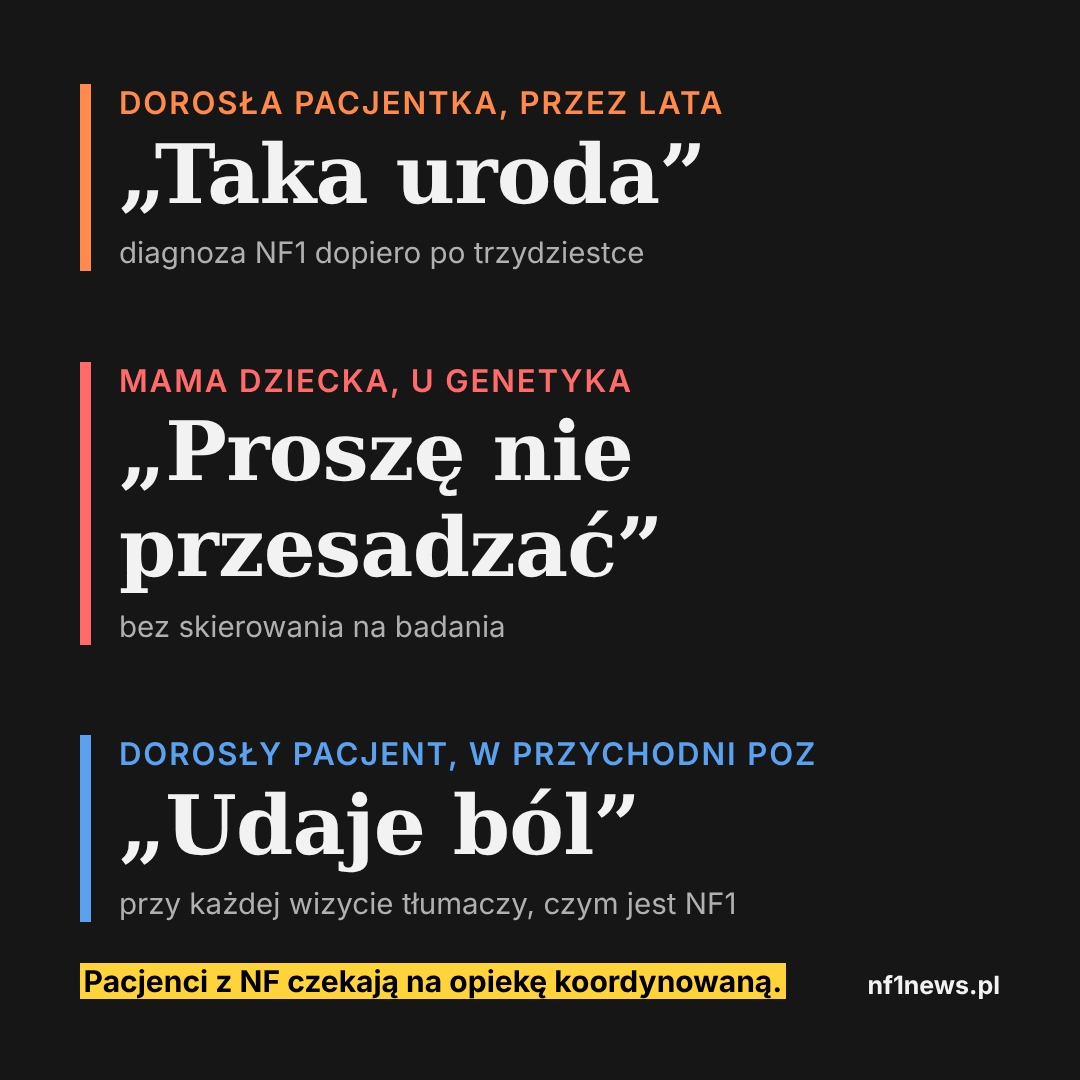
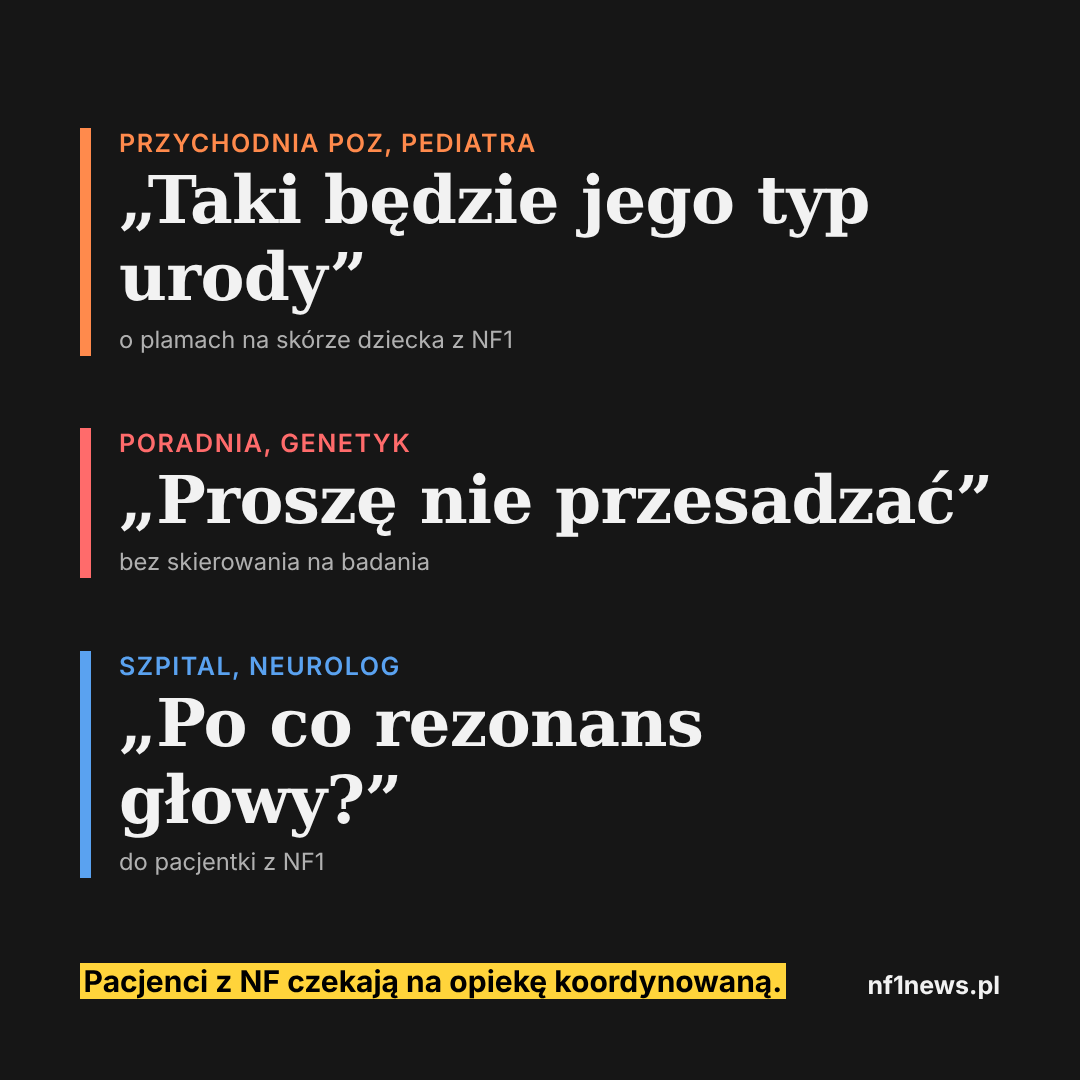
Szkic: relacje według miejsc opieki (POZ, poradnie, szpital, ośrodek)
Claude-Session: https://claude.ai/code/session_019jaYAT68TCeG7DBMMLMEMJ

Changed region(s): [[0.0611, 0.0611, 0.9167, 0.8556], [0.0611, 0.0611, 0.0917, 0.1222]]

diff --git a/_posts/2026-11-23-historie-pacjentow-z-nf.md b/_posts/2026-11-23-historie-pacjentow-z-nf.md
@@ -1,62 +1,63 @@
 ---
 date: 2026-11-23 10:00:00 +0100
-title: "„Taka uroda”, „proszę nie przesadzać”. Cztery historie pacjentów z NF1 o opiece poza pilotażem"
-description: "Rodzice dzieci z NF1 i dorośli z tą chorobą opisują wizyty u okulisty, neurologa, genetyka, urologa, pediatry i lekarza rodzinnego poza programem opieki koordynowanej. Cztery historie i trzy krótkie relacje, bez imion i nazw miejscowości."
+title: "„Taka uroda”, „proszę nie przesadzać”. Co pacjenci z NF1 słyszą u lekarzy poza ośrodkami specjalistycznymi"
+description: "Rodzice dzieci z NF1 i dorośli z tą chorobą opisują wizyty w przychodniach POZ, u specjalistów i w szpitalu, poza ośrodkami, które znają NF1. Relacje bez imion i nazw miejscowości."
 image: /assets/grafiki/2026-11-23-historie-pacjentow-z-nf.png
-grafika_alt: "Cztery historie pacjentów z NF1 poza pilotażem. „Taka uroda” – latami słyszała dorosła pacjentka, diagnoza NF1 dopiero po trzydziestce. „Proszę nie przesadzać” – usłyszała mama dziecka u genetyka, bez skierowania na badania. „Udaje ból” – usłyszał dorosły pacjent w przychodni POZ, gdzie przy każdej wizycie tłumaczy, czym jest NF1. Pacjenci z NF czekają na opiekę koordynowaną."
-tweet: "„Taka uroda”. „Proszę nie przesadzać”. „Udaje ból”. To słyszeli pacjenci z NF1 i rodzice dzieci z NF1 w gabinetach poza pilotażem opieki koordynowanej. Cztery historie. @MZ_GOV_PL #NF1 #neurofibromatoza #ChorobyRzadkie"
-fb: "„Taka uroda”. „Proszę nie przesadzać”. „Udaje ból”. Rodzice dzieci z NF1 i dorośli z tą chorobą opisali, jak wyglądają wizyty u okulisty, neurologa, genetyka, urologa, pediatry i lekarza rodzinnego poza programem opieki koordynowanej. Pilotaż opieki koordynowanej dla pacjentów z neurofibromatozami zakończył się 30 kwietnia 2026 r. Ministerstwo Zdrowia kieruje minister Jolanta Sobierańska-Grenda. #NF1 #neurofibromatoza #ChorobyRzadkie"
+grafika_alt: "Pacjenci z NF1 poza ośrodkami specjalistycznymi. Przychodnia POZ, pediatra: „Taki będzie jego typ urody” o plamach na skórze dziecka z NF1. Poradnia, genetyk: „Proszę nie przesadzać”, bez skierowania na badania. Szpital, neurolog: „Po co rezonans głowy?” do pacjentki z NF1. Pacjenci z NF czekają na opiekę koordynowaną."
+tweet: "„Taka uroda”. „Proszę nie przesadzać”. „Udaje ból”. To słyszeli pacjenci z NF1 i rodzice dzieci z NF1 w przychodniach POZ, u specjalistów i w szpitalu, poza ośrodkami znającymi NF1. @MZ_GOV_PL #NF1 #neurofibromatoza #ChorobyRzadkie"
+fb: "„Taka uroda”. „Proszę nie przesadzać”. „Udaje ból”. Rodzice dzieci z NF1 i dorośli z tą chorobą opisali, co słyszą w przychodniach POZ, u pediatry, okulisty, neurologa, genetyka, urologa i w szpitalu, poza ośrodkami specjalistycznymi, które znają NF1. Pilotaż opieki koordynowanej dla pacjentów z neurofibromatozami zakończył się 30 kwietnia 2026 r. Ministerstwo Zdrowia kieruje minister Jolanta Sobierańska-Grenda. #NF1 #neurofibromatoza #ChorobyRzadkie"
 ---
 
-Rodzice dzieci z neurofibromatozą typu 1 (NF1) i dorośli z tą chorobą opisali nam swoje wizyty u lekarzy poza programem pilotażowym opieki koordynowanej. Program działał w latach 2020–2026 i **<mark>zakończył się 30 kwietnia 2026 r.</mark>** Publikujemy cztery historie za zgodą ich autorów. Usunęliśmy imiona, nazwy miejscowości, placówek i nazwiska lekarzy.
+Neurofibromatoza typu 1 (NF1) może dotyczyć skóry, oczu, układu nerwowego, kości i innych narządów. Dlatego pacjenci potrzebują regularnych kontroli u kilku specjalistów. W latach 2020–2026 część pacjentów z NF miała opiekę koordynowaną w ośrodkach specjalistycznych w ramach programu pilotażowego, który **<mark>zakończył się 30 kwietnia 2026 r.</mark>** Poza takimi ośrodkami pacjent trafia do lekarza rodzinnego i do poszczególnych poradni osobno.
 
-## 1. Kontrola u okulisty za rok albo za dwa lata
+Rodzice dzieci z NF1 i dorośli z tą chorobą opisali nam, co słyszą w przychodniach POZ, u specjalistów i w szpitalu. Publikujemy ich relacje za zgodą autorów. Usunęliśmy imiona, nazwy miejscowości, placówek i nazwiska lekarzy.
 
-Dziecko z NF1 ma wizytę u okulisty. Na kolejną wizytę zostaje zapisane na najbliższy wolny termin w poradni ogólnej, czyli za rok albo za dwa lata.
+## Przychodnia POZ i pediatra
 
-Następnym razem dziecko trafia do okulisty, który zajmuje się leczeniem zeza. Dziecko zeza nie ma. Lekarz nie wie, co konkretnie ma zbadać i czego szukać. O NF1 wie tyle, że taka choroba istnieje. **<mark>Kolejną kontrolę wyznacza za dwa lata, bo dziecko nie ma zeza.</mark>**
+**„Taki będzie jego typ urody”.** Mama dziecka z NF1 zapytała pediatrę o plamy na skórze syna. Usłyszała, że to będzie jego typ urody.
 
-## 2. „Taka uroda”. Diagnoza mamy po trzydziestce
+**„Taka uroda”.** Dorosła pacjentka miała plamy na skórze i nerwiakowłókniaki od dziecka. Przez lata słyszała od lekarzy, że to „taka uroda” i że nie powinna się opalać. Nikt nie skierował jej na diagnostykę. NF1 rozpoznano u niej po trzydziestce, przypadkiem i na własny koszt, przy diagnozie jej syna. Syn urodził się z dużymi plamami w tym samym miejscu, w którym ma je mama.
 
-Plamy na skórze i nerwiakowłókniaki miała od dziecka. Przez lata słyszała od lekarzy, że to „taka uroda” i że nie powinna się opalać. Nikt nie skierował jej na diagnostykę.
+**Przy szczepieniu.** Pielęgniarka powiedziała lekarzowi, że dziecko choruje na NF1. Lekarz odpowiedział: **<mark>„teraz jak nie wiedzą, co dziecku dolega, to wpisują NF1”</mark>**.
 
-Jej syn urodził się z dużymi plamami w tym samym miejscu, w którym ma je mama. Przy diagnozie syna, przypadkiem i na własny koszt, NF1 rozpoznano także u niej. Była już po trzydziestce.
+**Dorosły pacjent w przychodni.** Mężczyzna z NF1, z przewlekłym bólem i zwężonym kanałem kręgowym. **<mark>W przychodni POZ przy każdej wizycie musi tłumaczyć, na czym polega jego choroba.</mark>** Gdy szukał tam leczenia bólu, usłyszał, że udaje ból. Jak pisze, ze skierowaniami i badaniami nie ma większego problemu, a fizjoterapeuci znają jego chorobę.
 
-Po urodzeniu syn dostał skierowania do sześciu specjalistów: rehabilitanta, neurologa, okulisty, laryngologa, neurochirurga i chirurga. W wieku dwóch lat trafił do programu pilotażowego. Mama opisuje, że wtedy jego opieka zdrowotna została uporządkowana. Dziś syn przyjmuje lek.
+## Specjaliści w poradniach
 
-Mama nie ma takiej opieki. Badania robi na własną rękę. **<mark>Okulista w czasie wizyty szukał w internecie informacji o chorobie, z którą przyszła.</mark>** Neurolog nie wystawił skierowania na rezonans magnetyczny, bo nie widział takiej potrzeby. Rezonans zrobiła prywatnie.
+**Okulista: kontrola za dwa lata.** Dziecko z NF1 po wizycie u okulisty zostaje zapisane na kolejną na najbliższy wolny termin w poradni ogólnej, czyli za rok albo za dwa lata. Następnym razem trafia do okulisty, który zajmuje się leczeniem zeza. Dziecko zeza nie ma. Lekarz nie wie, co konkretnie ma zbadać i czego szukać. O NF1 wie tyle, że taka choroba istnieje. **<mark>Kolejną kontrolę wyznacza za dwa lata, bo dziecko nie ma zeza.</mark>**
 
-## 3. „Udaje ból”. Dorosły pacjent w przychodni
+**Okulista: informacje z internetu.** Dorosła pacjentka z NF1, która nie ma opieki w ośrodku, robi badania na własną rękę. **<mark>Okulista w czasie wizyty szukał w internecie informacji o chorobie, z którą przyszła.</mark>**
 
-Dorosły mężczyzna z NF1, z przewlekłym bólem i zwężonym kanałem kręgowym. Jak pisze, ze skierowaniami i badaniami nie ma większego problemu, a fizjoterapeuci znają jego chorobę.
+**Neurolog: bez skierowania na rezonans.** Ta sama pacjentka poprosiła neurologa o skierowanie na rezonans magnetyczny. Neurolog go nie wystawił, bo nie widział takiej potrzeby. Rezonans zrobiła prywatnie.
 
-Inaczej jest w przychodni podstawowej opieki zdrowotnej (POZ). **<mark>Przy każdej wizycie musi tłumaczyć, na czym polega jego choroba.</mark>** Gdy szukał tam leczenia bólu, usłyszał, że udaje ból.
+**Genetyk: „proszę nie przesadzać”.** Dermatolog podejrzewał NF1 u małego chłopca. Mama poszła z synem do genetyka. Usłyszała, że teraz każdy przychodzi do niego z plamami „kawa z mlekiem” i żeby nie przesadzała. Genetyk nie zlecił żadnych badań. Kazał wrócić, gdy coś zacznie się dziać, a najlepiej wtedy, gdy dziecko będzie w pełni współpracować przy badaniu. Mama pisze: **<mark>„Gdybym może wtedy wiedziała o chorobie i dostała skierowanie na badania genetyczne lub rezonans, to może synek by widział na oba oczka”.</mark>**
 
-## 4. „Proszę nie przesadzać”. Mama chłopca z NF1
+**Urolog dziecięcy: „panikuje”.** Później ta sama mama wyczuła u syna guzki w mosznie. Urolog dziecięcy powiedział jej, żeby „nie dotykała, to nic nie wyczuje”, i że panikuje. Jedna lekarka zgodziła się zrobić USG. Przyznała, że nie zna tej choroby i nie wie, jakie to zmiany.
 
-Dermatolog podejrzewał u chłopca NF1. Mama, która sama nie ma tej choroby, poszła z synem do genetyka w swoim mieście. Usłyszała, że teraz każdy przychodzi do niego z plamami „kawa z mlekiem” i żeby nie przesadzała. Genetyk nie zlecił żadnych badań. Kazał wrócić, gdy coś zacznie się dziać, a najlepiej wtedy, gdy dziecko będzie w pełni współpracować przy badaniu.
+## Szpital
 
-Mama pisze: **<mark>„Gdybym może wtedy wiedziała o chorobie i dostała skierowanie na badania genetyczne lub rezonans, to może synek by widział na oba oczka”.</mark>**
+**Neurolog na oddziale.** Pacjentkę z NF1 neurolożka na oddziale szpitalnym zapytała, **<mark>po co jej rezonans głowy</mark>**, skoro ma „skórny typ choroby”.
 
-Później wyczuła u syna guzki w mosznie. Urolog dziecięcy powiedział jej, żeby „nie dotykała, to nic nie wyczuje”, i że panikuje. Jedna lekarka zgodziła się zrobić USG. Przyznała, że nie zna tej choroby i nie wie, jakie to zmiany.
+## W ośrodku specjalistycznym
 
-Po pewnym czasie mama pojechała z synem do ośrodka specjalistycznego. Tam od razu dostali skierowanie na USG i wizytę u chirurga onkologa, a syn trafił pod stałą kontrolę lekarki znającej NF1. Mama opisuje, że wtedy czuła, że syn jest pod opieką. Dziś, jak pisze, już pod nią nie są.
+**Syn pacjentki zdiagnozowanej po trzydziestce.** Po urodzeniu chłopiec dostał skierowania do sześciu specjalistów: rehabilitanta, neurologa, okulisty, laryngologa, neurochirurga i chirurga. W wieku dwóch lat trafił do programu pilotażowego. Mama opisuje, że wtedy jego opieka zdrowotna została uporządkowana. Dziś syn przyjmuje lek. Mama takiej opieki nie ma.
 
-## Krótko: co jeszcze słyszą pacjenci i rodzice
+**Chłopiec z guzkami w mosznie.** Z guzkami w mosznie mama pojechała z synem do ośrodka specjalistycznego. Tam od razu dostali skierowanie na USG i wizytę u chirurga onkologa, a syn trafił pod stałą kontrolę lekarki znającej NF1. Mama opisuje, że wtedy czuła, że syn jest pod opieką. Dziś, jak pisze, już pod nią nie są.
 
-Po prośbie o historie przyszły też krótsze relacje.
+## Relacje w skrócie
 
-- **Mama dziecka z NF1:** zapytała pediatrę o plamy na skórze syna. Usłyszała, że **<mark>„taki będzie jego typ urody”</mark>**.
-- **Mama dziecka z NF1, przy szczepieniu:** pielęgniarka powiedziała lekarzowi, że dziecko choruje na NF1. Lekarz odpowiedział, że **„teraz jak nie wiedzą, co dziecku dolega, to wpisują NF1”**.
-- **Pacjentka z NF1, na oddziale szpitalnym:** neurolożka zapytała, **„po co rezonans głowy”**, skoro pacjentka ma skórną postać choroby.
-
-## Cztery historie w skrócie
-
-| Historia | Kto | Lekarz | Co się stało |
-| --- | --- | --- | --- |
-| 1 | dziecko | okulista | kontrola za 1–2 lata, lekarz nie wiedział, czego szukać |
-| 2 | dorosła | okulista, neurolog | lekarz szukał informacji w internecie; brak skierowania na rezonans, rezonans prywatnie |
-| 3 | dorosły | lekarz POZ | tłumaczenie choroby przy każdej wizycie; „udaje ból” |
-| 4 | dziecko | genetyk, urolog | brak badań; „nie przesadzać”; lekarka przyznała, że nie zna choroby |
+| Gdzie | Lekarz | Co się stało |
+| --- | --- | --- |
+| POZ | pediatra | plamy na skórze: „taki będzie jego typ urody” |
+| POZ | lekarze przez lata | „taka uroda”, diagnoza NF1 po trzydziestce, na własny koszt |
+| POZ | lekarz przy szczepieniu | „jak nie wiedzą, co dziecku dolega, to wpisują NF1” |
+| POZ | lekarz rodzinny | tłumaczenie choroby przy każdej wizycie; „udaje ból” |
+| poradnia | okulista | kontrola za 1–2 lata, lekarz nie wiedział, czego szukać |
+| poradnia | okulista | szukał informacji o chorobie w internecie |
+| poradnia | neurolog | brak skierowania na rezonans, rezonans prywatnie |
+| poradnia | genetyk | brak badań; „nie przesadzać” |
+| poradnia | urolog dziecięcy | „panikuje”; lekarka od USG nie znała choroby |
+| szpital | neurolog | „po co rezonans głowy” |
+| ośrodek specjalistyczny | zespół znający NF1 | opieka uporządkowana; od razu skierowania i stała kontrola |
 
 **<mark>Pacjenci z neurofibromatozami są bez opieki koordynowanej od 30 kwietnia. Czekają na zmianę decyzji i na dialog.</mark>**
